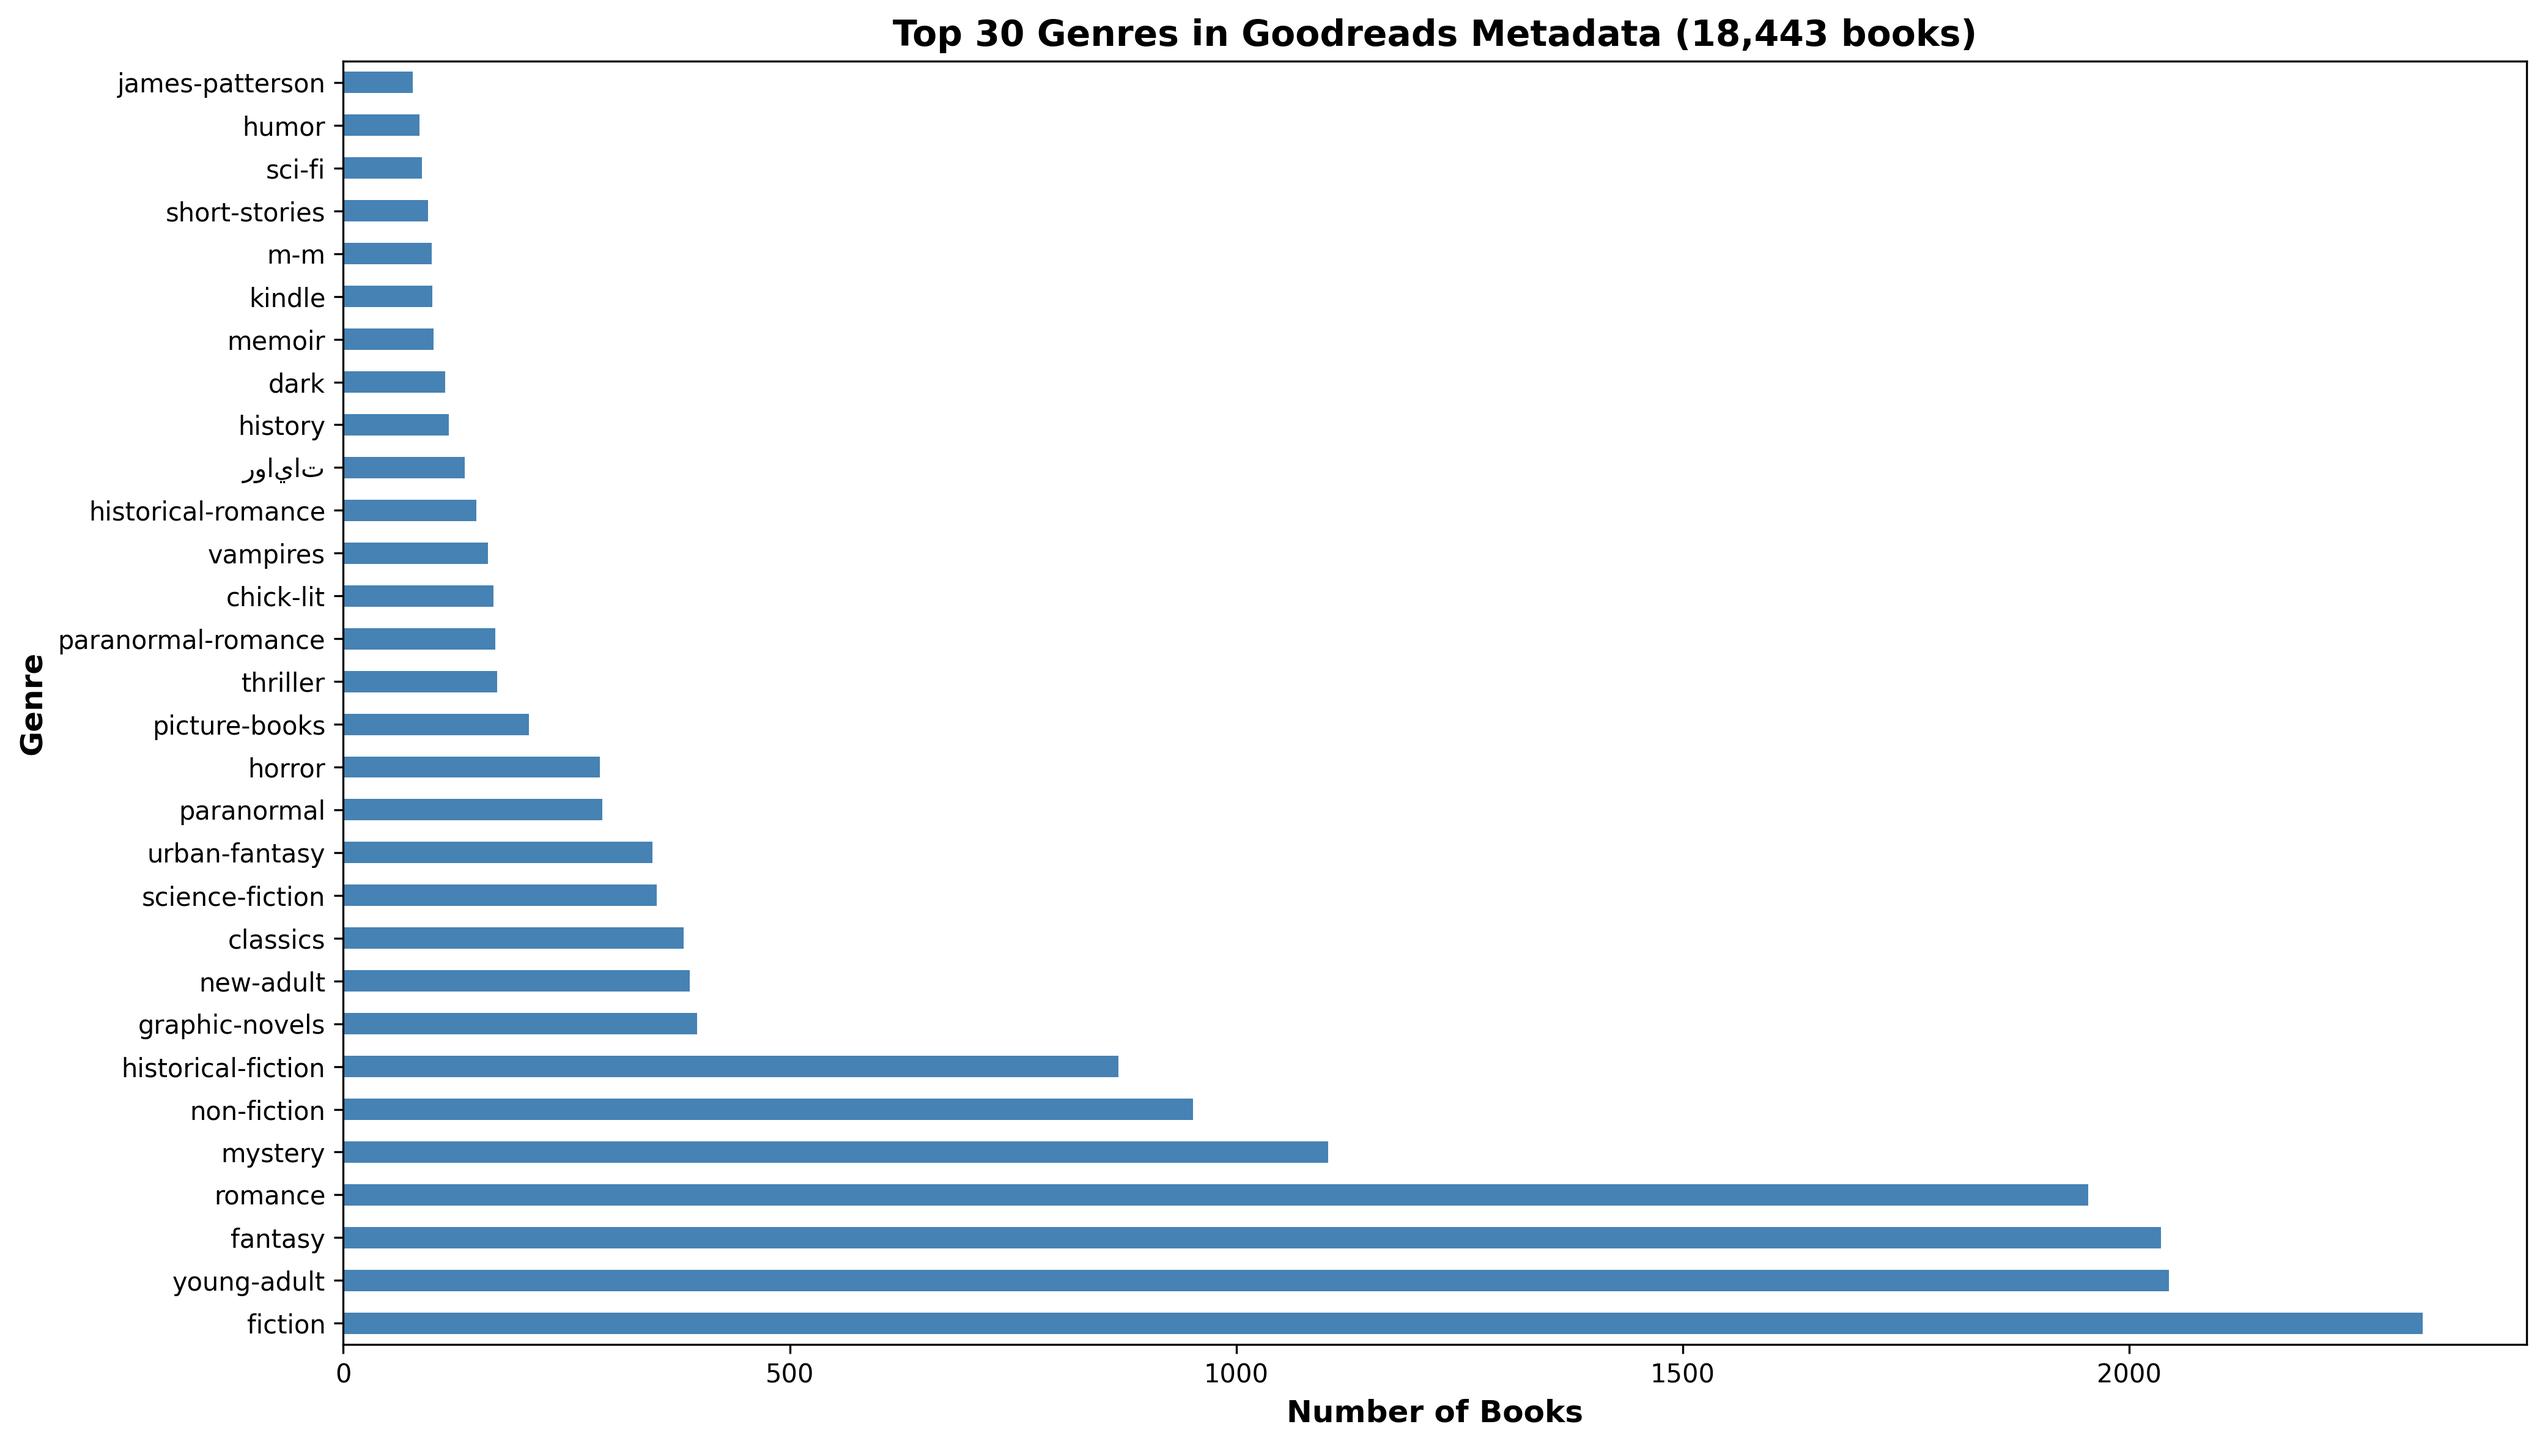
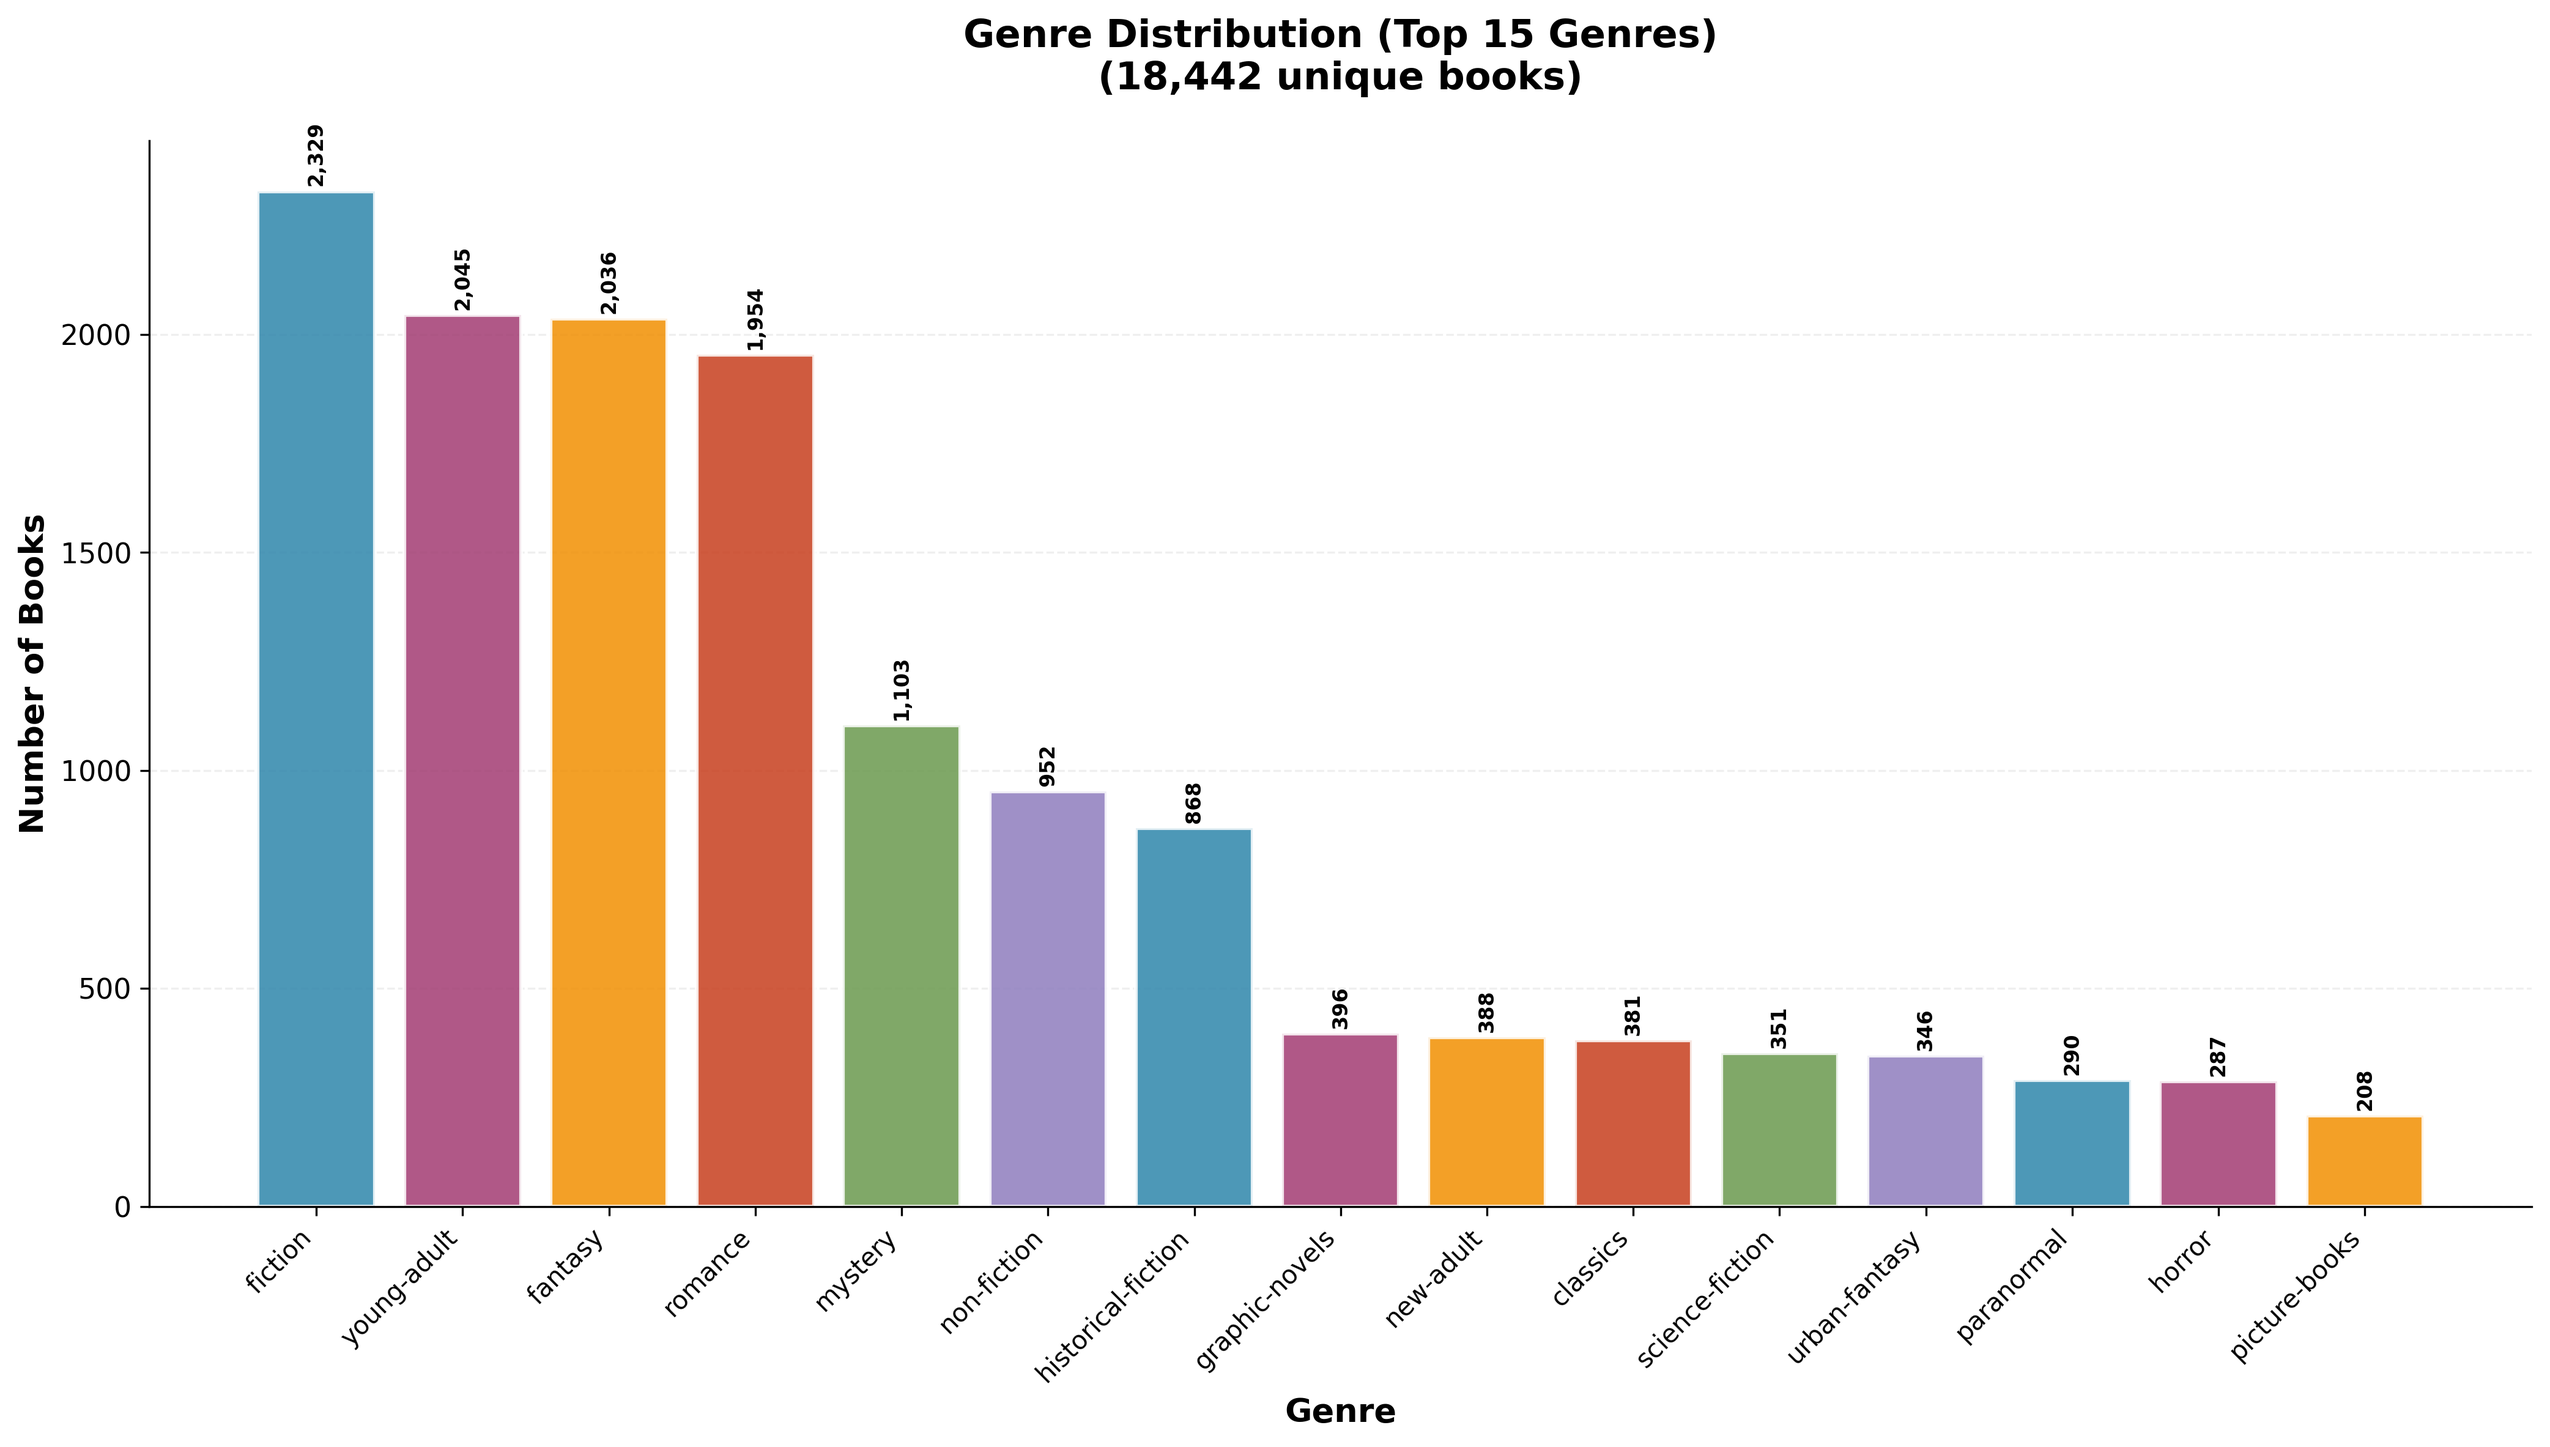
Committed Everything

diff --git a/util/plot_genre_distribution.py b/util/plot_genre_distribution.py
@@ -1,0 +1,139 @@
+"""
+Plot genre distribution from the processed dataset.
+
+Reads the processed parquet (output of process_data.py), deduplicates by book_id,
+and plots a histogram of genre frequencies in decreasing order.
+"""
+
+import argparse
+import os
+
+import matplotlib.pyplot as plt
+import numpy as np
+import pandas as pd
+
+
+def load_genre_counts(input_file, top_n=25):
+    """
+    Load genre counts from the processed parquet, counting each unique book once.
+
+    Args:
+        input_file: Path to processed parquet file
+        top_n: Number of top genres to return (None = all)
+
+    Returns:
+        List of (genre, count) tuples sorted by count descending
+    """
+    print(f"Loading data from {input_file}...")
+    df = pd.read_parquet(input_file, columns=["book_id", "genres"])
+    print(f"  Loaded {len(df):,} rows, {df['book_id'].nunique():,} unique books")
+
+    # One genre per book
+    books = df.drop_duplicates(subset=["book_id"])
+    total_books = len(books)
+    books_with_genre = books["genres"].notna().sum()
+    print(f"  Books with genre: {books_with_genre:,} / {total_books:,}")
+
+    counts = books["genres"].dropna().value_counts()
+
+    # Print top-5 fraction before truncating
+    top5_count = counts.head(5).sum()
+    top5_fraction = top5_count / books_with_genre
+    print(f"  Top-5 genres cover {top5_count:,} / {books_with_genre:,} books "
+          f"({top5_fraction:.1%} of books with a genre)")
+    print(f"  Top-5 genres: {list(counts.head(5).index)}")
+
+    if top_n is not None:
+        counts = counts.head(top_n)
+
+    return list(zip(counts.index, counts.values)), total_books
+
+
+def plot_genre_distribution(input_file, output_dir, top_n=25):
+    """
+    Plot a bar chart of genre frequencies in decreasing order.
+
+    Args:
+        input_file: Path to processed parquet file
+        output_dir: Directory to save the plot
+        top_n: Number of top genres to show
+    """
+    genre_counts, total_books = load_genre_counts(input_file, top_n=top_n)
+
+    if not genre_counts:
+        print("No genre data found.")
+        return
+
+    genres = [g for g, _ in genre_counts]
+    counts = [c for _, c in genre_counts]
+
+    # Cycle through aesthetic color palette
+    palette = ['#2E86AB', '#A23B72', '#F18F01', '#C73E1D', '#6A994E', '#8E7DBE']
+    colors = [palette[i % len(palette)] for i in range(len(genres))]
+
+    fig, ax = plt.subplots(figsize=(14, 8))
+
+    x_positions = np.arange(len(genres))
+    bars = ax.bar(x_positions, counts,
+                  color=colors,
+                  alpha=0.85,
+                  edgecolor='white',
+                  linewidth=1.5)
+
+    # Value labels on top of bars
+    for bar, count in zip(bars, counts):
+        height = bar.get_height()
+        ax.text(bar.get_x() + bar.get_width() / 2., height + max(counts) * 0.005,
+                f'{count:,}',
+                ha='center', va='bottom', fontsize=8, fontweight='bold', rotation=90)
+
+    ax.set_xlabel("Genre", fontsize=13, fontweight='bold')
+    ax.set_ylabel("Number of Books", fontsize=13, fontweight='bold')
+    ax.set_title(f"Genre Distribution (Top {len(genres)} Genres)\n"
+                 f"({total_books:,} unique books)",
+                 fontsize=15, fontweight='bold', pad=20)
+
+    ax.set_xticks(x_positions)
+    ax.set_xticklabels(genres, fontsize=10, rotation=45, ha='right')
+    ax.tick_params(axis='y', labelsize=11)
+
+    ax.grid(True, alpha=0.2, axis='y', linestyle='--', linewidth=0.8)
+    ax.spines['top'].set_visible(False)
+    ax.spines['right'].set_visible(False)
+    ax.set_axisbelow(True)
+
+    plt.tight_layout()
+    output_path = os.path.join(output_dir, "genre_distribution.png")
+    plt.savefig(output_path, dpi=300, bbox_inches='tight', facecolor='white')
+    print(f"Saved plot: {output_path}")
+    plt.close()
+
+
+def main():
+    parser = argparse.ArgumentParser(
+        description="Plot genre distribution from the processed dataset"
+    )
+    parser.add_argument(
+        "--input",
+        default="/home/mananaga/goodreads_dataset/processed_dataset.parquet",
+        help="Processed parquet file (output of process_data.py)"
+    )
+    parser.add_argument(
+        "--output_dir",
+        default="/home/mananaga/goodreads/plots",
+        help="Directory to save the plot"
+    )
+    parser.add_argument(
+        "--top_n",
+        type=int,
+        default=15,
+        help="Number of top genres to show (default: 25)"
+    )
+    args = parser.parse_args()
+
+    os.makedirs(args.output_dir, exist_ok=True)
+    plot_genre_distribution(args.input, args.output_dir, top_n=args.top_n)
+
+
+if __name__ == "__main__":
+    main()
